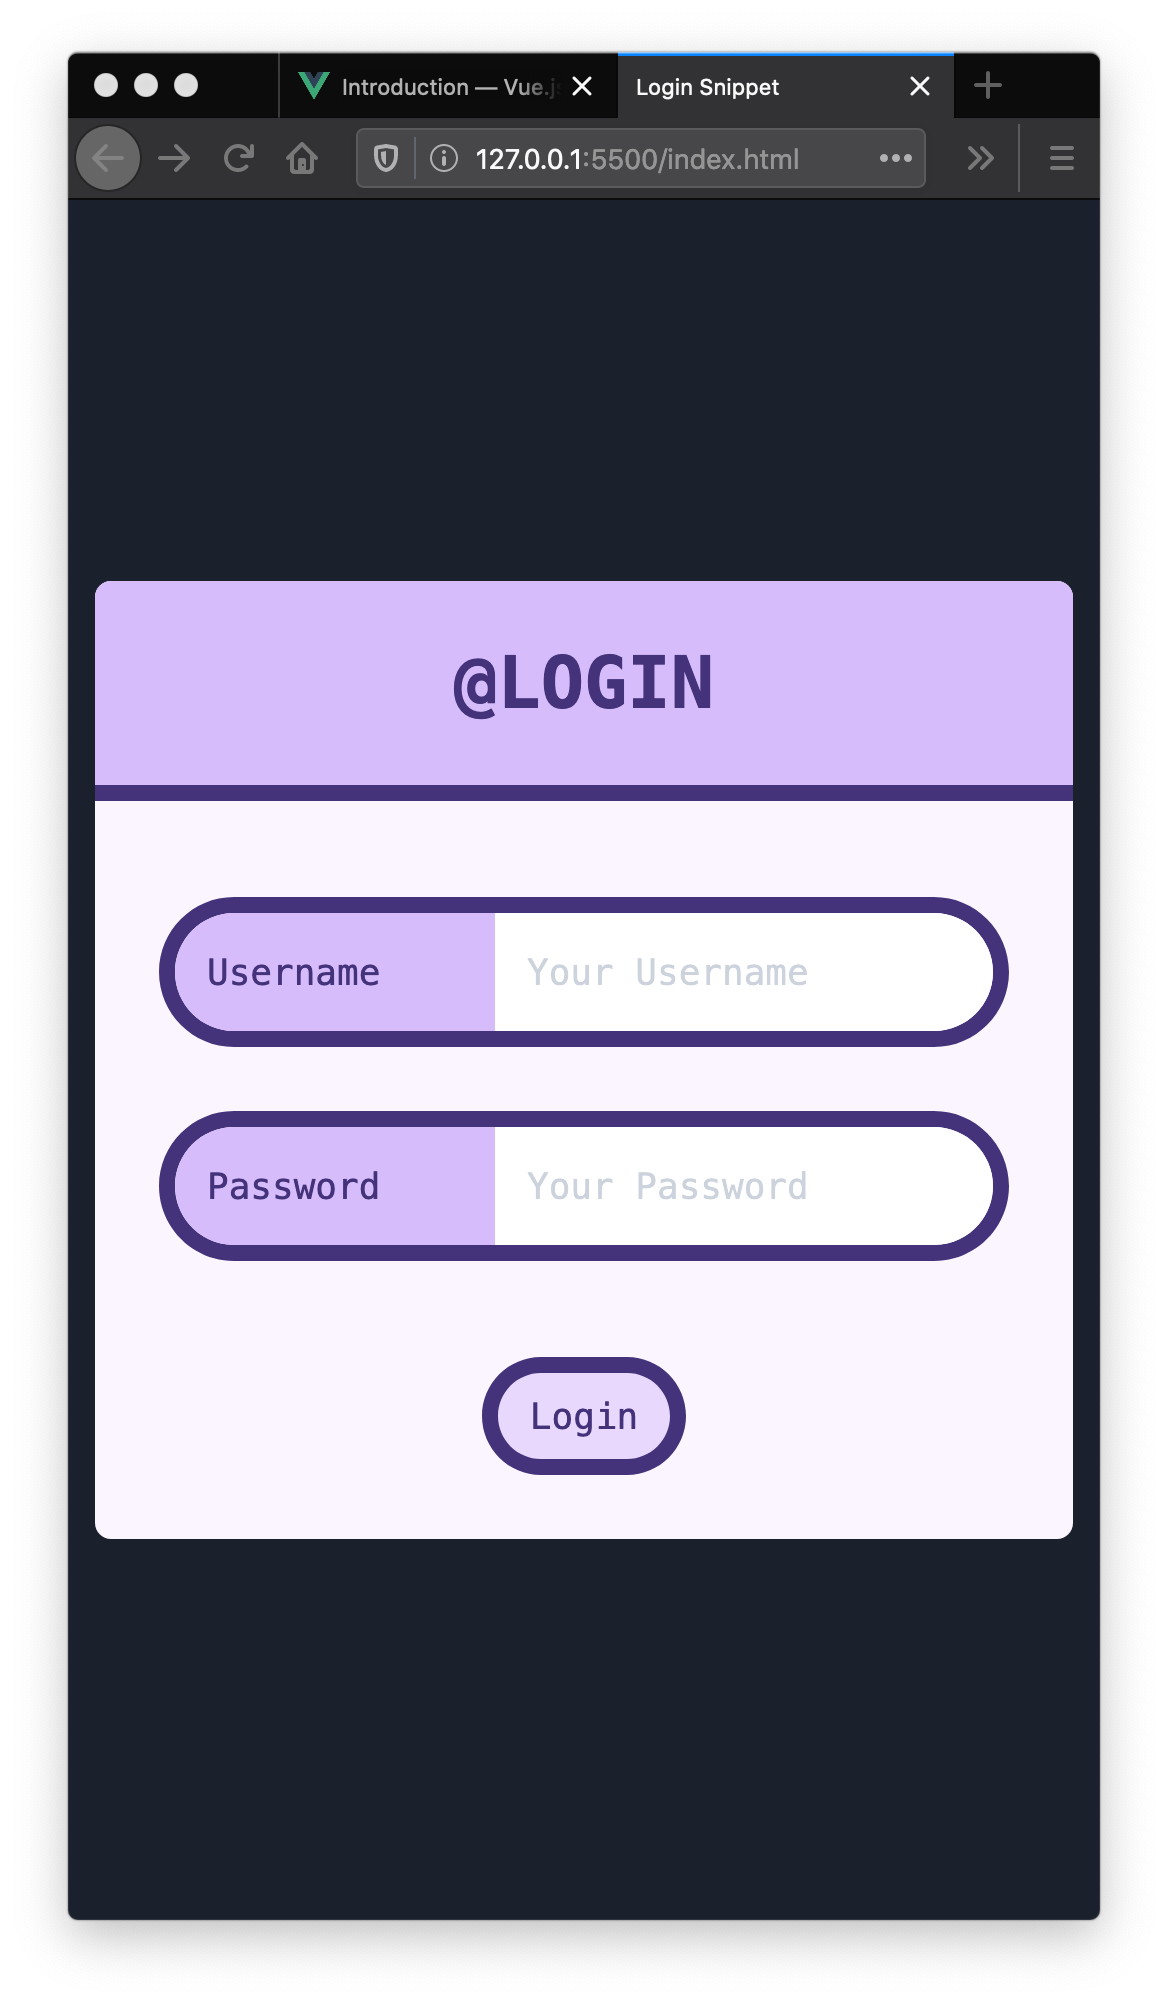
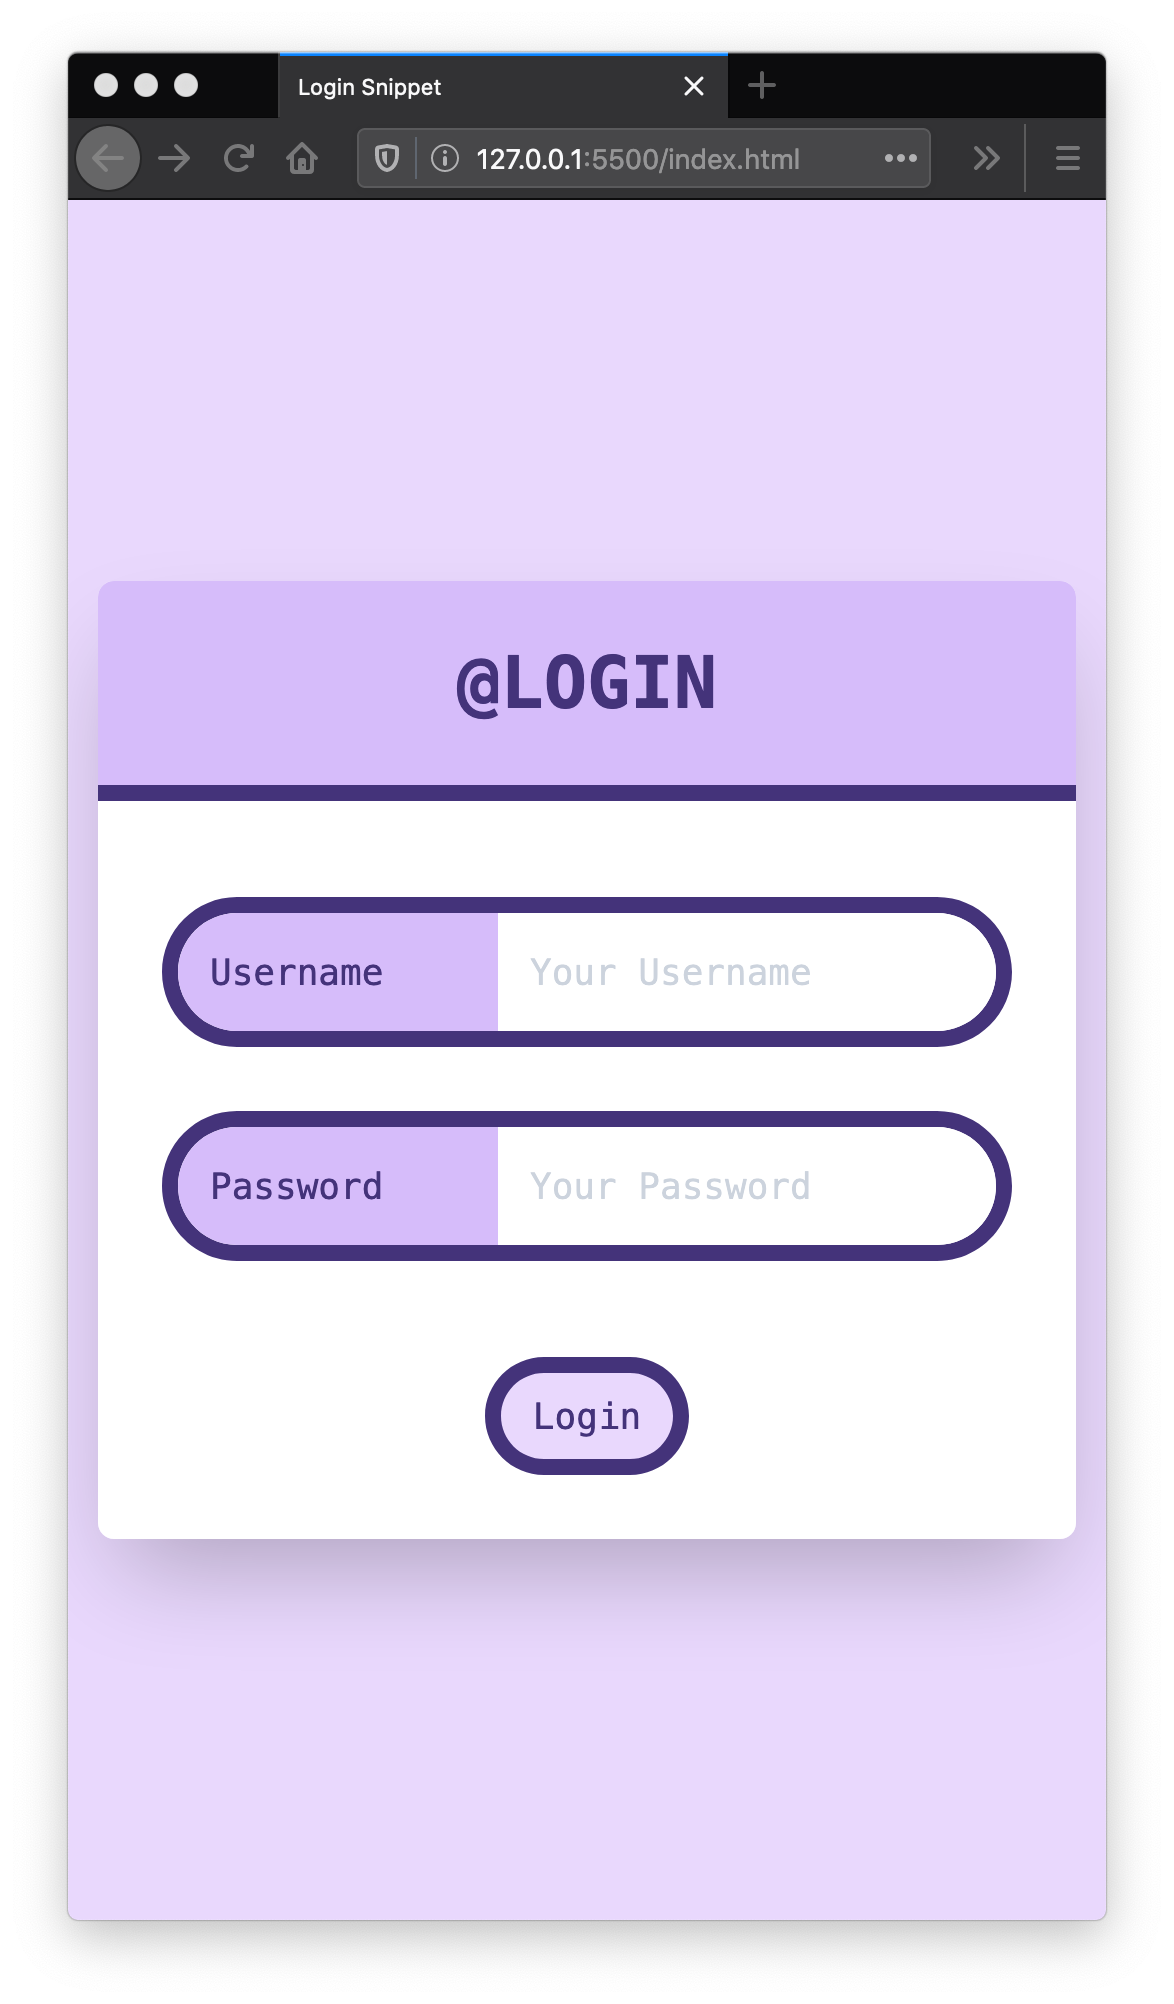
login form

diff --git a/index.html b/index.html
@@ -10,10 +10,10 @@
 </head>
 <body>
     <!-- background -->
-    <div id="app" class="flex justify-center items-center bg-gray-900 w-screen h-screen">
+    <div id="app" :class="`flex justify-center items-center bg-${ loginColor }-200 w-screen h-screen`">
 
         <!-- box -->
-        <div :class="`text-lg bg-${ loginColor }-100 font-mono rounded-lg`">
+        <div :class="`text-lg bg-white font-mono rounded-lg shadow-2xl`">
 
             <!-- title -->
             <h1 :class="`p-6 bg-${ loginColor }-300 text-center uppercase font-bold text-${ loginColor }-900 text-4xl border-b-8 border-${ loginColor }-900 rounded-t-lg`">@login</h1>
